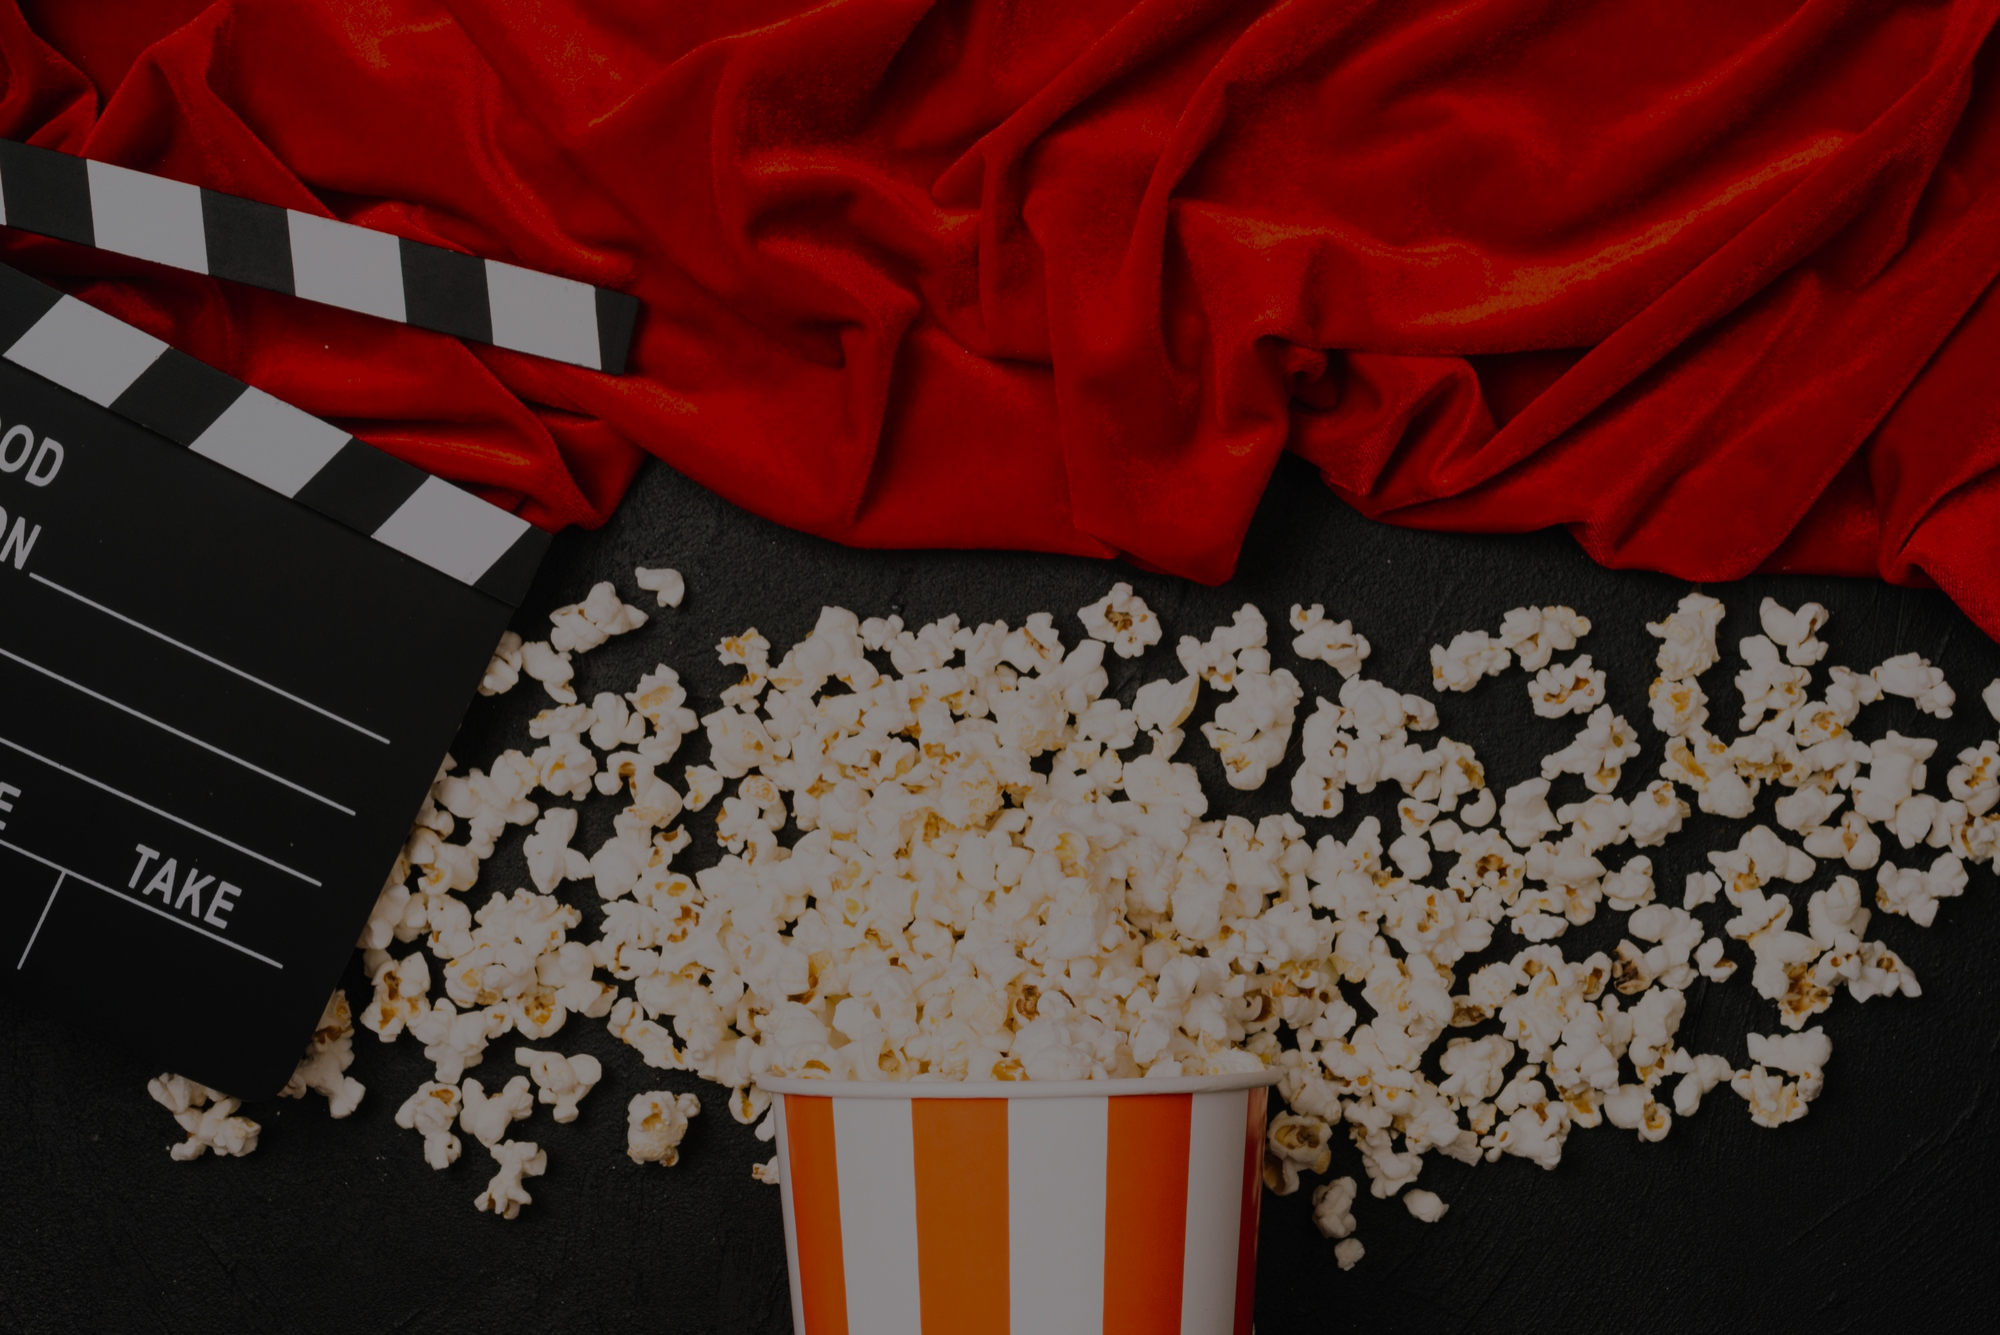
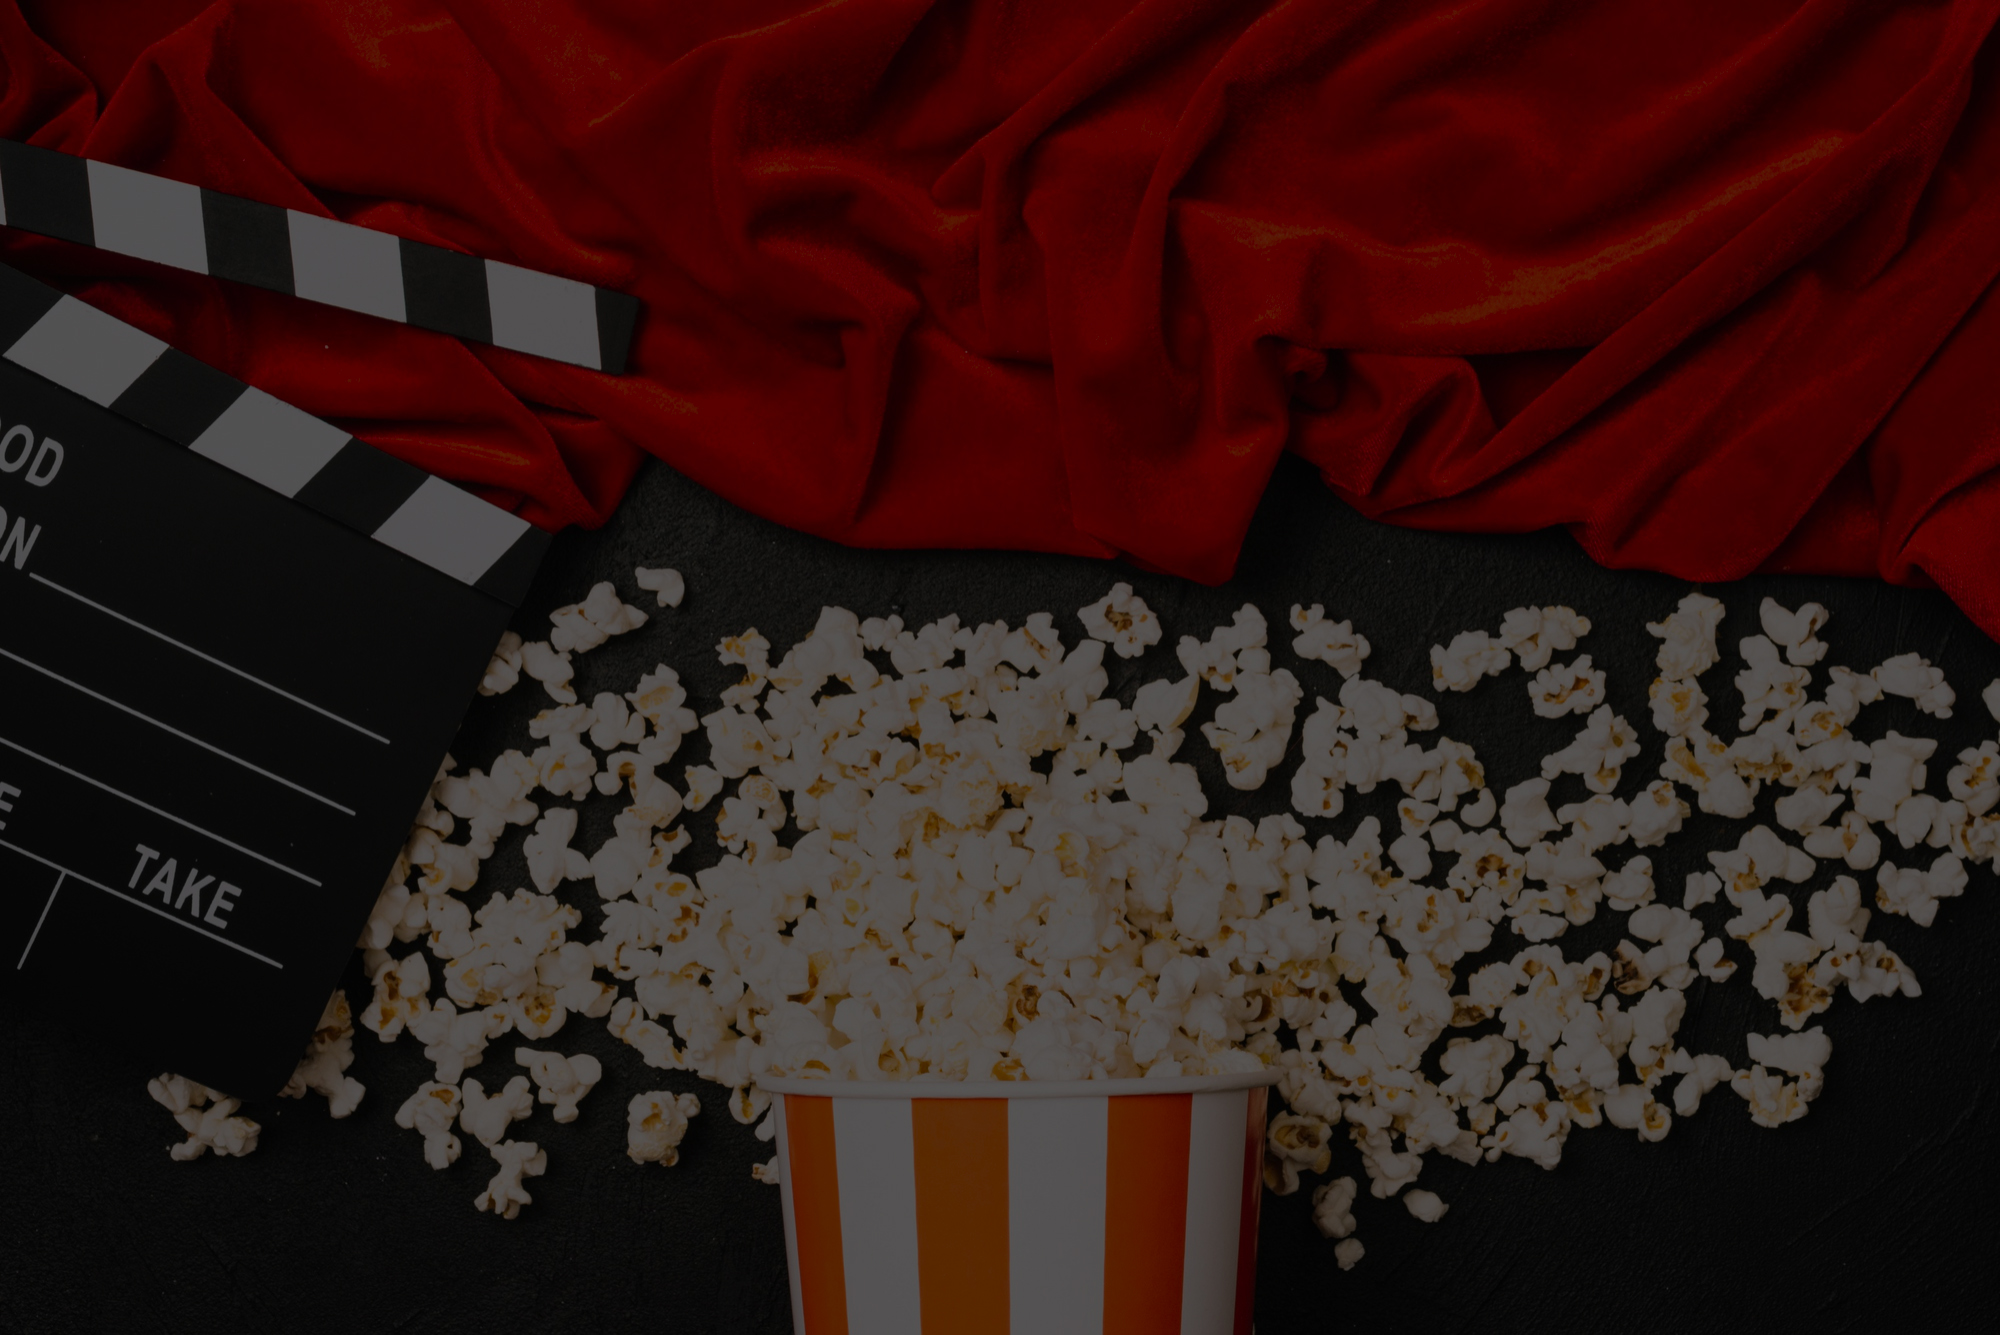
criando Modal

diff --git a/movie-finder/src/components/Movies.tsx b/movie-finder/src/components/Movies.tsx
@@ -1,12 +1,14 @@
+/* eslint-disable @typescript-eslint/no-explicit-any */
 "use client";
 import { useState } from "react";
 import axios from "axios";
 import Image from "next/image";
+import { Suspense } from "react"
 import Link from "next/link";
+import Styles from "../app/page.module.css"
 
 export default function Movies() {
   const [query, setQuery] = useState("");
-  // eslint-disable-next-line @typescript-eslint/no-explicit-any
   const [movies, setMovies] = useState<any[]>([]);
   const [loading, setLoading] = useState(false);
   const [error, setError] = useState("");
@@ -14,10 +16,9 @@ export default function Movies() {
   const API_KEY = process.env.NEXT_PUBLIC_TMDB_API_KEY;
 
   const handleSearch = async () => {
-    if (!query) return;
+    if (!query) return alert("Preencha o campo!!");
     setLoading(true);
     setError("");
-
     try {
       const res = await axios.get("https://api.themoviedb.org/3/search/movie", {
         params: {
@@ -27,8 +28,6 @@ export default function Movies() {
           include_adult: false,
         },
       });
-      console.log(res.data.results)
-
       if (res.data.results.length > 0) {
         setMovies(res.data.results);
       } else {
@@ -39,32 +38,29 @@ export default function Movies() {
       console.log(err);
       setError("Erro ao buscar filmes");
     }
-
     setLoading(false);
   };
 
   return (
-    <main className="p-4 max-w-4xl mx-auto">
-      <h1 className="text-3xl font-bold mb-4 text-center">
-        🎬 MovieFinder (TMDb)
-      </h1>
-      <div className="flex gap-2 mb-4">
+    <div className="p-4 max-w-4xl mx-auto ">
+      <p className="text-center text-sm">Pronto para assistir? Aproveita desfrutar os melhores filmes de forma grátis</p>
+      <div className="flex gap-2 my-4">
         <input
           type="text"
           placeholder="Buscar filme..."
           value={query}
           onChange={(e) => setQuery(e.target.value)}
-          className="flex-1 p-2 border rounded"
+          className={`${Styles.input} flex-1 py-2 px-3 rounded border border-gray-500 outline-none backdrop-blur-xs`}
         />
         <button
           onClick={handleSearch}
-          className="bg-blue-600 text-white px-4 rounded"
-        >
+          className="bg-red-600 flex flex-row gap-2 items-center justify-center text-white px-4 rounded  hover:bg-red-700 hover:duration-300"
+          >
           Buscar
         </button>
       </div>
       {loading && <p>Carregando...</p>}
-      {error && <p className="text-red-500">{error}</p>}
+      {error && <p className="text-red-600">{error}</p>}
 
       <div className="grid grid-cols-1 sm:grid-cols-2 md:grid-cols-3 gap-4">
         {movies.map((movie) => (
@@ -72,17 +68,19 @@ export default function Movies() {
             key={movie.id}
             className="border rounded overflow-hidden shadow hover:scale-105 transition"
           >
-            <Image
-              src={
-                movie.poster_path
-                  ? `https://image.tmdb.org/t/p/w500${movie.poster_path}`
-                  : "/placeholder.png"
-              }
-              width={500}
-              height={750}
-              alt={movie.title}
-              className="w-full h-72 object-cover"
-            />
+            <Suspense fallback={<p>Carregando...</p>}>
+              <Image
+                src={
+                  movie.poster_path
+                    ? `https://image.tmdb.org/t/p/w500${movie.poster_path}`
+                    : "/placeholder.png"
+                }
+                width={500}
+                height={750}
+                alt={movie.title}
+                className="w-full h-72 object-cover"
+                />
+            </Suspense>
             <div className="p-2">
               <h2 className="font-bold">{movie.title}</h2>
               <p>{movie.release_date}</p>
@@ -95,6 +93,6 @@ export default function Movies() {
           </div>
         ))}
       </div>
-    </main>
+    </div>
   );
 }

diff --git a/movie-finder/src/app/page.tsx b/movie-finder/src/app/page.tsx
@@ -1,13 +1,26 @@
+"use client"
+/* eslint-disable @typescript-eslint/no-unused-vars */
+import Header from "@/components/Header"
 import Movies from "@/components/Movies"
+import Styles from "./page.module.css"
+import { useState } from "react"
 export default function Home() {
+  const [modal, setModal] = useState(false)
+
+  const handleOpenModal = () => {
+    setModal(true)
+  }
   return (
-      <div>
-        {/*<main className="w-screen h-60 bg-[url('/assets/bg.jpg')] bg-cover bg-center flex flex-col items-center justify-center">
-          <h1 className="text-white text-3xl">
+      <div className="">
+        <Header/>
+        <main className={`${Styles.bgImage} w-full min-h-screen flex flex-col items-center justify-center`}>
+          <h1 className="max-w-xl text-3xl sm:text-5xl text-center text-white font-bold px-4">
             Filmes, programas de TV e muito mais ilimitados
           </h1>
-        </main>*/}
-        <Movies/>
+          <Movies/>
+
+          <p onClick={handleOpenModal} >Modal</p>
+        </main>
       </div>
   );
 }

diff --git a/movie-finder/src/components/Header.tsx b/movie-finder/src/components/Header.tsx
@@ -1,0 +1,15 @@
+
+export default function Header () {
+
+    return (
+        <header className="fixed top-0 w-screen flex items-center justify-center py-4">
+            <div className="max-w-7xl container flex flex-row items-center justify-between px-4">
+                <div className="flex flex-col items-center justify-center">
+                    <p className="text-red-600 text-2xl font-bold -mb-2">Movie</p>
+                    <span className="text-sm ">Finder</span>
+                </div>
+                <button className="bg-red-600 rounded-md px-4 py-2 text-sm hover:bg-red-700 hover:duration-300">Entrar</button>
+            </div>
+        </header>
+    )
+}

diff --git a/movie-finder/src/components/Modal.tsx b/movie-finder/src/components/Modal.tsx
@@ -1,0 +1,18 @@
+'use client'
+/* eslint-disable @typescript-eslint/no-unused-vars */
+import { useState } from "react"
+
+export default function Modal () {
+    const [close, setClose] = useState(false)
+
+    const hendleCloseModal = () => {
+        setClose(true)
+    }
+
+    return (
+        <div>
+            <button onClick={hendleCloseModal}>X</button>
+            <h1>Modal</h1>
+        </div>
+    )
+}

diff --git a/movie-finder/src/app/layout.tsx b/movie-finder/src/app/layout.tsx
@@ -17,7 +17,7 @@ export default function RootLayout({
   return (
     <html lang="pt-BR">
       <body
-        className={`${inter.className} bg-gray-900 text-white min-h-screen`}
+        className={`${inter.className} bg-[#060606] text-white min-h-screen`}
       >
         {children}
       </body>

diff --git a/movie-finder/src/app/page.module.css b/movie-finder/src/app/page.module.css
@@ -1,0 +1,10 @@
+.bgImage {
+    background-image: url("../../public/assets/bg.jpg");
+    background-size: cover;
+    background-position: center;
+    background-attachment: fixed;
+}
+
+.input {
+    background-color: rgba(0, 0, 0, 0.432);
+}

diff --git a/movie-finder/src/app/globals.css b/movie-finder/src/app/globals.css
@@ -1,6 +1,7 @@
 @import "tailwindcss";
-
-
+html {
+  scroll-behavior: smooth;
+}
 body {
-  font-family: "Poppins",Arial, Helvetica, sans-serif;
+  font-family: "Roboto";
 }

diff --git a/movie-finder/src/app/Loading.tsx b/movie-finder/src/app/Loading.tsx
@@ -1,0 +1,3 @@
+export default function loading () {
+    return <h1>Loading...</h1>
+}
